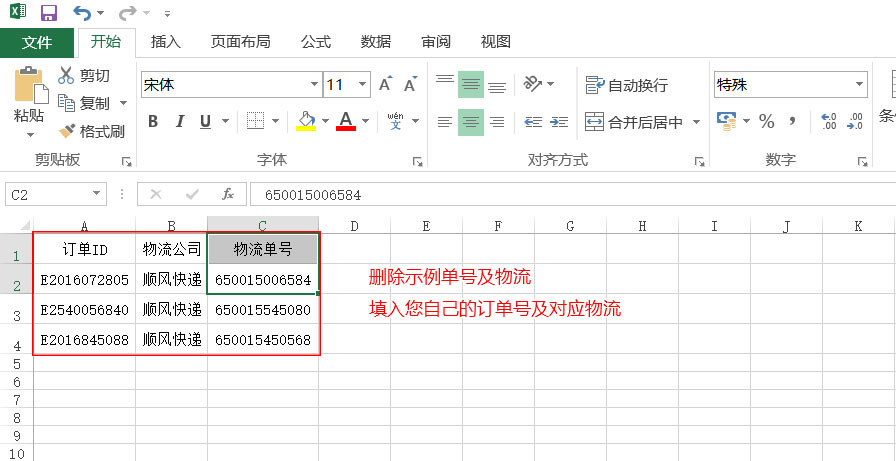
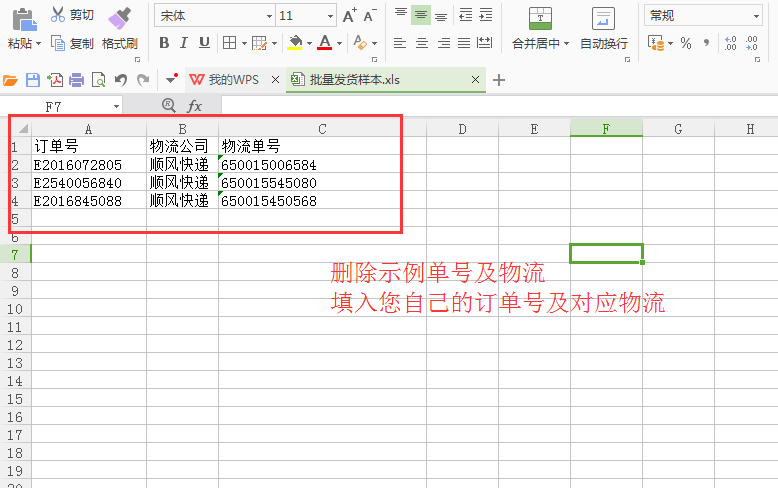
[修改]批量发货exl

Changed region(s): [[0.0, 0.0, 1.0, 1.0]]

diff --git a/Template/admin/new/Order/batchDelivery.html b/Template/admin/new/Order/batchDelivery.html
@@ -12,7 +12,7 @@
 <div class="g-mn1">
     <div class="g-mn1c">
         <include file="Public/breadcrumb" />
-        <div class="tip1">通过后台-订单-批量发货功能进行批量发货，操作批量发货需上传包含订单ID、物流公司、物流单号三个字段的csv文件。 </div>
+        <div class="tip1">通过后台-订单-批量发货功能进行批量发货，操作批量发货需上传包含订单号、物流公司、物流单号三个字段的csv文件。 </div>
         <div class="flow_box">
             <div class="flow">
                 <p><span>1</span>下载批量发货样本文件，用 excel 打开 批量发货样本.xls </p>
@@ -22,7 +22,7 @@
                 <br>
             </div>
             <div class="flow">
-                <p><span>2</span>在样本文件中将示例单号及物流删除，填入您自己的订单ID，以及对应发货的物流公司、物流单号 </p>
+                <p><span>2</span>在样本文件中将示例单号及物流删除，填入您自己的订单号，以及对应发货的物流公司、物流单号 </p>
 
 
                 <p><img src="__STATIC__/img/l1.jpg" width="896" height="461"></p>
